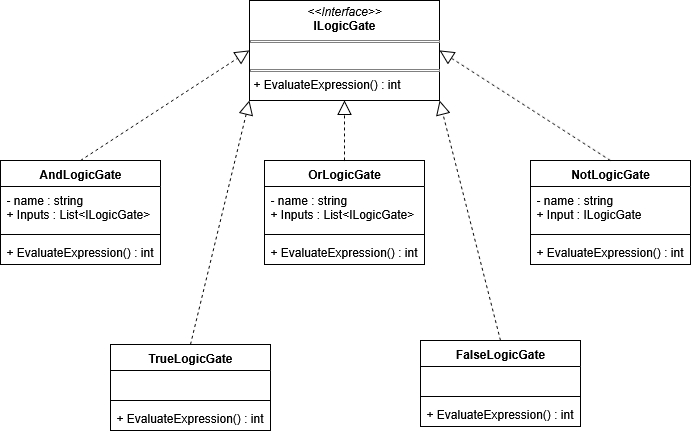
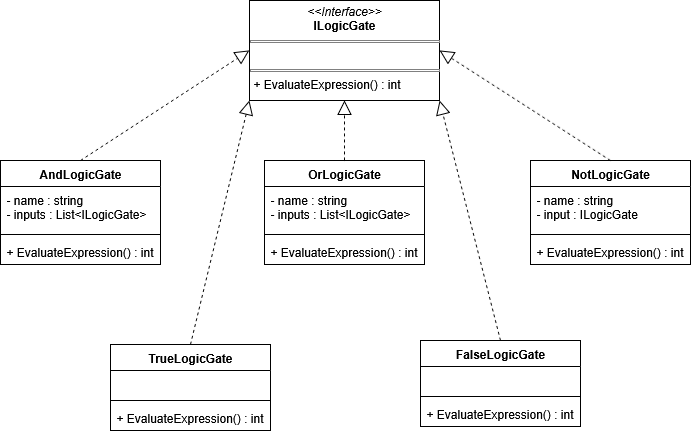
Fixed UML Class Diagram.

diff --git a/test/Library.Tests/OrLogicGateTests.cs b/test/Library.Tests/OrLogicGateTests.cs
@@ -1,10 +1,15 @@
+using Library;
+
 namespace Library.Tests;
 
-public class Tests
+public class OrLogicGateTests
 {
+    private AndLogicGate _andLogicGate;
+    
     [SetUp]
     public void Setup()
     {
+        _andLogicGate = new AndLogicGate("AND-1");
     }
 
     [Test]
